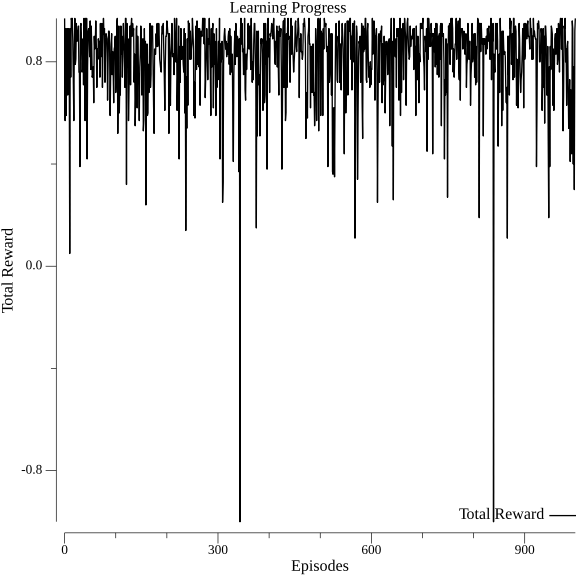
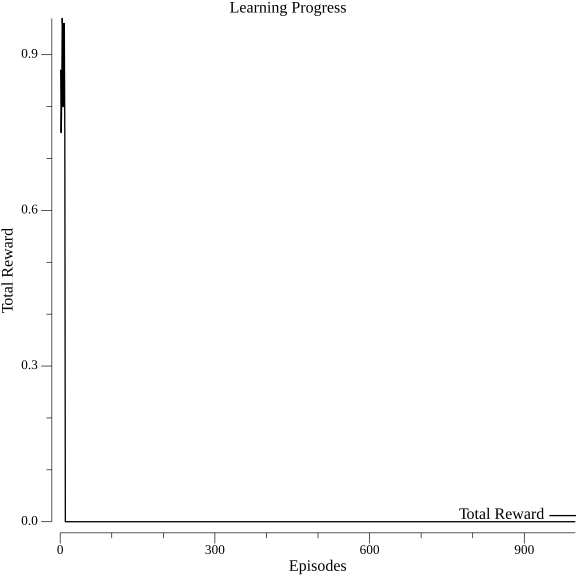
Added early stopping

diff --git a/cmd/step25/main.go b/cmd/step25/main.go
@@ -301,8 +301,16 @@ func learningRateScheduler(step int) float64 {
 
 func main() {
 	numEpisodes := 1000
-	totalEpisodeRewards := make([]float64, numEpisodes)
-	maxPossibleEpisodeReward := 0.0
+	maxPossibleTotalRewards := 0.0
+	totalRewards := make([]float64, numEpisodes)
+
+	var (
+		// Early Stopping Parameters
+		minImprovement float64 = 0.01             // Minimum improvement to consider as progress
+		patience       int     = 10               // Number of episodes to wait for improvement before stopping
+		waitCounter    int     = 0                // Counter to keep track of episodes without improvement
+		bestReward     float64 = -math.MaxFloat64 // Initialize with the lowest possible value
+	)
 
 	for episode := 0; episode < numEpisodes; episode++ {
 		env := Environment{}                                                         // reset environment at the start of each episode
@@ -310,8 +318,8 @@ func main() {
 		replayBuffer := NewReplayBuffer(ReplayBufferSize)
 
 		totalReward := 0.0
-		for step := 0; step < 100; step++ {
-			maxPossibleEpisodeReward += 0.97
+		for step := 0; step < 1000; step++ {
+			maxPossibleTotalRewards += 0.97
 			agent.UpdateLearningRate(agent.StepCount)
 
 			state := env.State
@@ -340,13 +348,26 @@ func main() {
 			}
 		}
 
-		totalEpisodeRewards[episode] = totalReward
+		totalRewards[episode] = totalReward
+
+		// Early Stopping Check
+		if totalReward > bestReward+minImprovement {
+			bestReward = totalReward
+			waitCounter = 0 // Reset the wait counter since we have improvement
+		} else {
+			waitCounter++
+			if waitCounter >= patience {
+				fmt.Println("Early stopping triggered")
+				break
+			}
+		}
+
 		fmt.Printf("Episode %d finished. Total Reward: %.2f\n", episode+1, totalReward)
 	}
 
-	fmt.Printf("Episodes finished. Total Episode Reward: %.2f / %.2f\n", sum(totalEpisodeRewards), maxPossibleEpisodeReward)
+	fmt.Printf("Episodes finished. Total Episode Reward: %.2f / %.2f\n", sum(totalRewards), maxPossibleTotalRewards)
 	// Call the function to visualize the results
-	visualizeLearningProgress(totalEpisodeRewards)
+	visualizeLearningProgress(totalRewards)
 }
 
 func sum(vals []float64) float64 {
